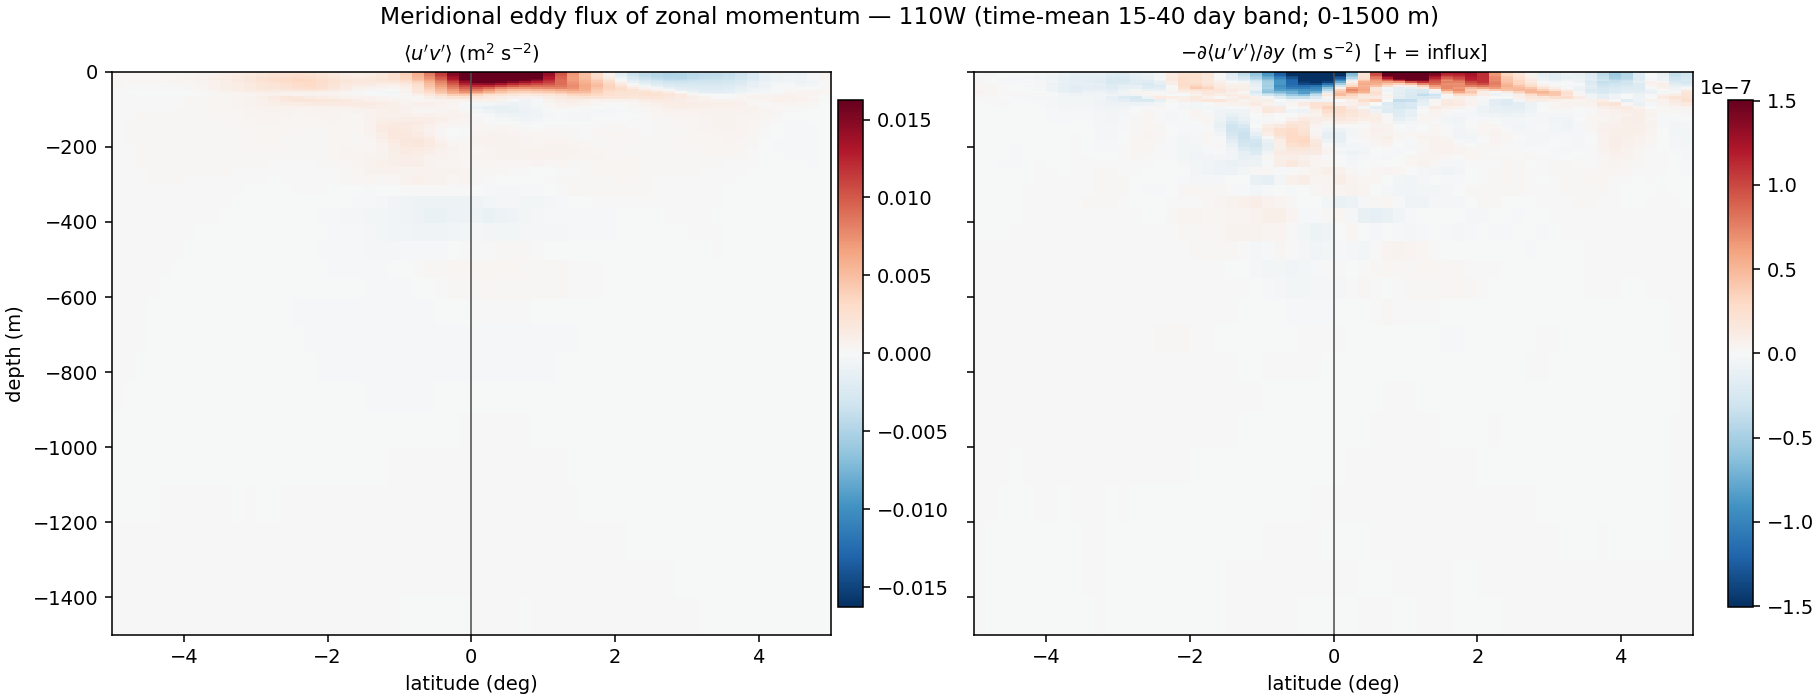
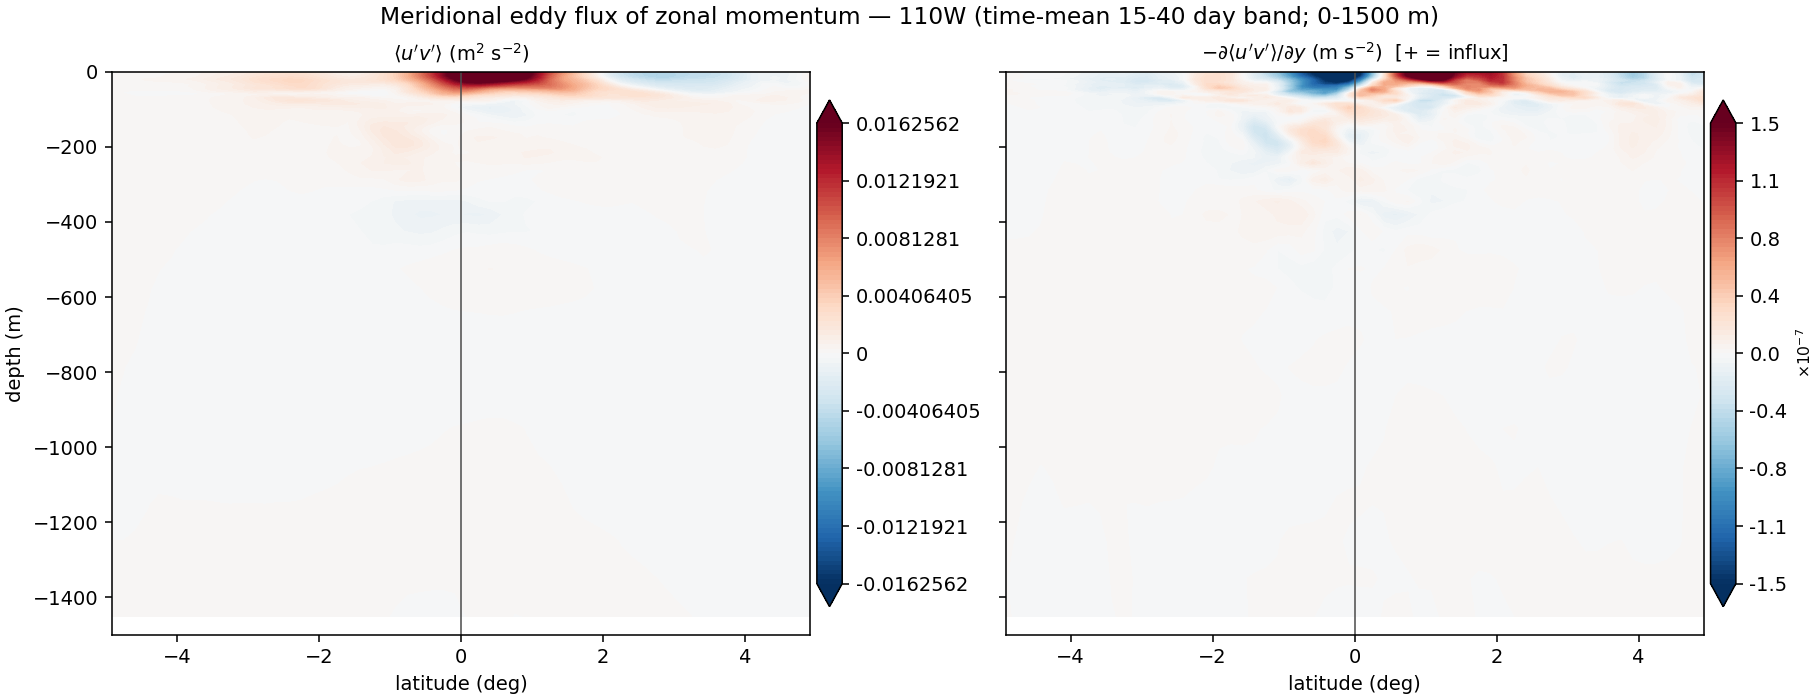
updating meridional convergence of momentum figures

diff --git a/scripts/build_uv_section.py b/scripts/build_uv_section.py
@@ -1,15 +1,21 @@
-"""Cache the TOTAL-anomaly zonal-momentum Reynolds stress <u'v'>(depth, lat).
+"""Cache the zonal-momentum Reynolds stress <u'v'>(depth, lat) at a few lons.
 
-Companion to the band-passed cov3d caches: here u' = u - time_mean(u) is the
-TOTAL anomaly (all frequencies), not the 15-40 day band. Only the few longitude
-sections that plot_mom_budget needs are computed, so this stays cheap -- one lon
-column is streamed at a time (low memory) over the same analysis window as the
-band-passed covariances (spin-up dropped + band-pass edge-trim removed, so the
-total and band-passed fig-3 views use identical time samples).
+Two companion <u'v'> sections are built from the same streamed longitude column,
+over the same analysis window (spin-up dropped + band-pass edge-trim removed):
+
+  TOTAL  u' = u - time_mean(u)             all frequencies
+  BAND   u' = bandpass(u) to 15-40 day     Yanai band, matches the cov3d cache
+
+The BAND section is the cheap single-column equivalent of component 'uv' in the
+full-domain yanai_flux_cov3d cache (build_map_cache), avoiding that ~600 GB
+whole-record load when only the plot_mom_budget sections are needed. It is
+written in the cov3d schema (cov[component, depth, y, x]) so plot_mom_budget
+reads it unchanged.
 
 Outputs (CACHE_DIR):
-  yanai_uv_section_total_dt60.nc   (tpose24)   uv(lon_w, depth, lat)
+  yanai_uv_section_total_dt60.nc   (tpose24)   total-anomaly uv(lon_w, depth, lat)
   yanai_uv_section_total_tp6.nc    (tpose6)
+  yanai_uv_section_band_dt60.nc    (tpose24)   band-passed cov[uv] section
 """
 
 import os
@@ -19,10 +25,13 @@ from concurrent.futures import ThreadPoolExecutor
 
 import tpose24_io as io24
 import tpose6_io as io6
+import wave_filter as wf
 
 LONS_W = {'tpose24': [140], 'tpose6': [170, 140, 110]}     # deg W sections
 OUT = {'tpose24': 'yanai_uv_section_total_dt60.nc',
        'tpose6': 'yanai_uv_section_total_tp6.nc'}
+# band-passed cov[uv] section (cov3d schema), cheap stand-in for build_map_cache
+OUT_BAND = {'tpose24': 'yanai_uv_section_band_dt60.nc'}
 
 
 def _cov_total(u, v, land):
@@ -33,6 +42,21 @@ def _cov_total(u, v, land):
     up = u - np.nanmean(u, 0, keepdims=True)
     vp = v - np.nanmean(v, 0, keepdims=True)
     return np.nanmean(up * vp, 0).astype('f4')             # (nz, ny)
+
+
+def _cov_band(u, v, land, k):
+    """Band-passed <u'v'> over time, matching the cov3d cache construction.
+
+    Mask land -> 15-40 day band-pass along time -> drop k edge samples each end
+    -> time-mean of the product. u,v: (time, nz, ny); land: (nz, ny) bool.
+    """
+    u, v = u.astype('f8'), v.astype('f8')
+    u[:, land] = np.nan
+    v[:, land] = np.nan
+    ub = wf.bandpass(u, axis=0)
+    vb = wf.bandpass(v, axis=0)
+    sl = slice(k, u.shape[0] - k)
+    return np.nanmean(ub[sl] * vb[sl], 0).astype('f4')     # (nz, ny)
 
 
 def section_t24(lons_w):
@@ -56,9 +80,10 @@ def section_t24(lons_w):
             if n % 100 == 0 or n == nt - 1:
                 print(f'  t24 read {n+1}/{nt}', flush=True)
     sl = slice(k, nt - k)                                  # match cov3d window
-    out = {lw: _cov_total(U[lw][sl], V[lw][sl], hFacC[:, :, ix] == 0.0)
-           for lw, ix in ixs.items()}
-    return Z, lat, out
+    land = {lw: hFacC[:, :, ix] == 0.0 for lw, ix in ixs.items()}
+    out = {lw: _cov_total(U[lw][sl], V[lw][sl], land[lw]) for lw in lons_w}
+    band = {lw: _cov_band(U[lw], V[lw], land[lw], k) for lw in lons_w}
+    return Z, lat, out, band
 
 
 def section_t6(lons_w):
@@ -75,13 +100,13 @@ def section_t6(lons_w):
         v = io6.load_var('VVEL', iy=iy, ix=slice(ix, ix + 1)).values[..., 0]
         out[lw] = _cov_total(u[etm], v[etm], hFacC[:, iy, ix] == 0.0)
         print(f'  t6 {lw}W done', flush=True)
-    return Z, lat, out
+    return Z, lat, out, None                               # no band section for t6
 
 
 def build(model):
     sec = section_t24 if model == 'tpose24' else section_t6
     cache = io24.CACHE_DIR if model == 'tpose24' else io6.CACHE_DIR
-    Z, lat, out = sec(LONS_W[model])
+    Z, lat, out, band = sec(LONS_W[model])
     lons = list(out)
     arr = np.stack([out[lw] for lw in lons])               # (nlon, nz, ny)
     ds = xr.Dataset(
@@ -93,6 +118,23 @@ def build(model):
     path = os.path.join(cache, OUT[model])
     ds.to_netcdf(path)
     print('saved', path, flush=True)
+
+    # band-passed section in cov3d schema (cheap stand-in for build_map_cache)
+    if band is not None and model in OUT_BAND:
+        cov = np.stack([band[lw] for lw in lons])          # (nlon=x, nz, ny)
+        cov = np.moveaxis(cov, 0, -1)[None]                # (component=1, nz, ny, nlon)
+        lon_e = [360.0 - lw for lw in lons]                # deg E, cov3d x coord
+        ds_b = xr.Dataset(
+            {'cov': (['component', 'depth', 'y', 'x'], cov.astype('f4'))},
+            coords={'component': ['uv'], 'depth': Z,
+                    'lat': ('y', lat), 'lon': ('x', np.array(lon_e))},
+            attrs={'momentum_units': 'm2 s-2', 'model': model,
+                   'band_days': f'{wf.YANAI_MIN_DAYS}-{wf.YANAI_MAX_DAYS}',
+                   'note': "band-passed <u'v'> section; single-column equivalent of "
+                           "component 'uv' in yanai_flux_cov3d (build_map_cache)"})
+        path_b = os.path.join(cache, OUT_BAND[model])
+        ds_b.to_netcdf(path_b)
+        print('saved', path_b, flush=True)
 
 
 def main(models=None):

diff --git a/scripts/tpose24_io.py b/scripts/tpose24_io.py
@@ -1,14 +1,22 @@
-"""IO helpers for the TPOSE24 dt=60 run (oct2012_3mo_dt60_AB3).
+"""IO helpers for the TPOSE24 dt=60 run (6-month Oct 2012 - Apr 2013).
 
-The MITgcm diag_state output is raw big-endian float32 with the field order
+The full 6-month record is two back-to-back MITgcm segments sharing one ref
+date and iteration clock (2012-10-01, dt=60 s, 3-hourly diag output):
+    oct2012_dt60_10072026   parent, iters 180..132480   (days 0.125..92)
+    jan2013_from_pickup     extension, iters 129780..262080 (days 90..182)
+The extension restarted from the parent's day-90 pickup and is bit-identical in
+the ~2-day overlap, so iteration numbers are globally meaningful and the two
+segments concatenate into one continuous record. See `SEGMENTS` / `_iter_dir`.
+
+The diag_state output is raw big-endian float32 with the field order
     THETA, SALT, UVEL, VVEL, WVEL, PHIHYD, DRHODR
 packed as (nz, ny, nx) per field per iteration file. Grid files (XC, YC, RC,
-DRF, hFacC, ...) live in the same run directory and are shared across all
-TPOSE24 runs.
+DRF, hFacC, ...) live in each segment directory (identical across both).
 
 Field reads use direct big-endian memmap offsets (fast, low memory); grid
 coordinates are taken from a light 2-iteration xmitgcm load so the spherical
-grid is not reconstructed by hand.
+grid is not reconstructed by hand. Every read goes through `_path(it)`, which
+routes an iteration to its owning segment, so callers are segment-agnostic.
 """
 
 import os
@@ -18,8 +26,12 @@ import numpy as np
 import pandas as pd
 
 # --- run configuration --------------------------------------------------------
-RUN_DIR   = '/data/SO3/edavenport/tpose24/oct2012_3mo_dt60_AB3'
-GRID_DIR  = RUN_DIR                       # grid files shared, live in the run dir
+# 6-month record as ordered segments; the overlap resolves to the FIRST segment
+# that owns an iteration (parent wins), so the record is continuous and dedup'd.
+SEGMENTS = ['/data/SO3/edavenport/tpose24/oct2012_dt60_10072026',  # parent 0-92d
+            '/data/SO3/edavenport/tpose24/jan2013_from_pickup']    # extension 90-182d
+RUN_DIR   = ' + '.join(os.path.basename(s) for s in SEGMENTS)  # provenance label
+GRID_DIR  = SEGMENTS[0]                    # grid files identical across segments
 CACHE_DIR = '/data/SO3/edavenport/tpose24/cache'
 REF_DATE  = '2012-10-01'
 DELTA_T   = 60.0                          # model time step (s), dt=60 run
@@ -39,12 +51,25 @@ FIELD_IDX = {'THETA': 0, 'SALT': 1, 'UVEL': 2, 'VVEL': 3,
 _SLICE = NY * NX                         # elements in one horizontal level
 _FIELD = NZ * _SLICE                     # elements in one full 3D field
 
+_ITER_DIR = None                         # lazy iter -> segment dir map (dedup'd)
+
+
+def _iter_dir():
+    """Map {iteration -> owning segment dir}, first segment wins on overlap."""
+    global _ITER_DIR
+    if _ITER_DIR is None:
+        m = {}
+        for seg in SEGMENTS:
+            for f in glob.glob(os.path.join(seg, 'diag_state.*.data')):
+                it = int(re.search(r'\.(\d+)\.data$', f).group(1))
+                m.setdefault(it, seg)       # setdefault -> earlier segment wins
+        _ITER_DIR = m
+    return _ITER_DIR
+
 
 def diag_iters():
-    """Sorted iteration numbers with a diag_state file present."""
-    its = [int(re.search(r'\.(\d+)\.data$', f).group(1))
-           for f in glob.glob(os.path.join(RUN_DIR, 'diag_state.*.data'))]
-    return np.array(sorted(its))
+    """Sorted iteration numbers present across the concatenated segments."""
+    return np.array(sorted(_iter_dir()))
 
 
 def iter_times(iters):
@@ -78,7 +103,7 @@ def edge_trim_mask(times, trim_days=EDGE_TRIM_DAYS):
 
 
 def _path(it):
-    return os.path.join(RUN_DIR, f'diag_state.{it:010d}.data')
+    return os.path.join(_iter_dir()[int(it)], f'diag_state.{it:010d}.data')
 
 
 def read_column(it, field, i, j):
@@ -149,7 +174,7 @@ def load_grid():
     """
     from xmitgcm import open_mdsdataset
     its = diag_iters()[:2].tolist()
-    ds = open_mdsdataset(RUN_DIR, grid_dir=GRID_DIR, iters=its,
+    ds = open_mdsdataset(GRID_DIR, grid_dir=GRID_DIR, iters=its,
                          prefix=['diag_state'], ref_date=REF_DATE,
                          delta_t=DELTA_T)
     xc = np.asarray(ds.XC.values); yc = np.asarray(ds.YC.values)

diff --git a/scripts/plot_deep_jets.py b/scripts/plot_deep_jets.py
@@ -36,7 +36,7 @@ import plot_moorings as pm
 import eos_jmd95 as eos
 
 NMODES = 20                       # highest mode number kept
-ZMIN, ZMAX = 100.0, 1000.0        # plotted depth range (m, positive down)
+ZMIN, ZMAX = 200.0, 1000.0        # plotted depth range (m, positive down)
 N_LEVELS = 100                    # filled-contour levels
 N2_FLOOR = 1e-7                   # s^-2, keeps the eigenproblem stably stratified
 CLIM = {'low': 1.0, 'high': 0.3}  # shared symmetric color limits (m/s)
@@ -170,7 +170,7 @@ OVERLAY_DAYS = 3        # light moving-avg window (days) for the overlaid u'w';
 N_UW_LINES = 5          # +/- contour lines of u'w' overlaid (zero omitted)
 
 
-def make_overlay_fig(M, cfg, strat, treat='yanai'):
+def make_overlay_fig(M, cfg, strat, treat='yanai', overlay_days=OVERLAY_DAYS):
     """High-mode zonal velocity with the u'w' flux overlaid as contour lines.
 
     Same bottom-row high-mode (11-20) reconstruction as make_fig, one column per
@@ -188,7 +188,7 @@ def make_overlay_fig(M, cfg, strat, treat='yanai'):
     zz = Z[zmask]
 
     dt_days = float(np.median(np.diff(M['time'])) / np.timedelta64(1, 'D'))
-    win = max(1, round(OVERLAY_DAYS / dt_days))
+    win = max(1, round(overlay_days / dt_days))
     high, uw = {}, {}
     for p in range(len(names)):
         Utot = M['mean']['U'][p][None, :] + M['treat']['unfiltered']['u'][:, p, :]
@@ -221,10 +221,10 @@ def make_overlay_fig(M, cfg, strat, treat='yanai'):
     axes[0].set_ylim(-ZMAX, -ZMIN)
     band = '15-40 day' if treat == 'yanai' else 'total (unfiltered)'
     fig.suptitle(f"Deep jets (high modes 11-20) with {band} $u'w'$ overlaid "
-                 f"(solid +, dashed −; {OVERLAY_DAYS}-day avg; {ZMIN:.0f}-{ZMAX:.0f} m)")
+                 f"(solid +, dashed −; {overlay_days}-day avg; {ZMIN:.0f}-{ZMAX:.0f} m)")
     fname = pm.fig_path(M['fig_dir'],
                         f"mooring_deep_jets_highmode_uw_overlay_{treat}_"
-                        f"{ZMIN:.0f}-{ZMAX:.0f}m.png")
+                        f"{overlay_days}dayavg_{ZMIN:.0f}-{ZMAX:.0f}m.png")
     fig.savefig(fname, dpi=140)
     plt.close(fig)
     return fname
@@ -249,7 +249,8 @@ def main(models=None):
         for tag, splitter, label in VARIANTS:
             print('wrote', make_fig(M, cfg, strat, splitter, tag, label))
         for treat in ('yanai', 'unfiltered'):      # band-passed + total u'w' overlay
-            print('wrote', make_overlay_fig(M, cfg, strat, treat))
+            for days in (1, 3):                     # smoothing window for overlaid u'w'
+                print('wrote', make_overlay_fig(M, cfg, strat, treat, days))
 
 
 def _selfcheck():

diff --git a/scripts/plot_mom_budget.py b/scripts/plot_mom_budget.py
@@ -29,15 +29,17 @@ import matplotlib.pyplot as plt
 
 import plot_moorings as pm
 
-# cov3d cache per model (component-stacked time-mean covariances)
-COV3D = {'tpose24': 'yanai_flux_cov3d_dt60.nc', 'tpose6': 'yanai_flux_cov3d_tp6.nc'}
+# band-passed <u'v'> source per model: tpose24 uses the cheap single-column
+# section (build_uv_section) that stands in for the full-domain cov3d 'uv'
+# component; tpose6 uses its full cov3d cache (build_map_cache_t6).
+COV3D = {'tpose24': 'yanai_uv_section_band_dt60.nc', 'tpose6': 'yanai_flux_cov3d_tp6.nc'}
 # longitudes to section (deg W); only those inside the model domain are drawn
 LONS_W = {'tpose24': [140], 'tpose6': [170, 140, 110]}
 LAT_LIM = 5.0            # +/- latitude shown (deg)
 # depth windows (zmin, zmax, filename tag). The colour limit auto-scales to the
 # plotted band, so the 100-1000 m view gets smaller limits that bring out the
 # (much weaker) deep structure hidden under the surface-intensified signal.
-ZRANGES = [(0.0, 1500.0, ''), (100.0, 1000.0, '_100-1000m')]
+ZRANGES = [(0.0, 1500.0, ''), (200.0, 1000.0, '_200-1000m')]
 R_EARTH, D2R = 6371e3, np.pi / 180.0
 
 
@@ -81,12 +83,12 @@ def make_fig(cfg, lon_w, lat, depth, uv, zmin, zmax, ztag, treat):
     for ax, (title, F) in zip(axes, panels):
         Fs = F[np.ix_(zmask, lmask)]
         v = pm._autoscale(Fs)
-        pcm = ax.pcolormesh(yy, zz, Fs, cmap='RdBu_r', vmin=-v, vmax=v,
-                            shading='auto')
+        cs = ax.contourf(yy, zz, Fs, levels=np.linspace(-v, v, pm.N_LEVELS + 1),
+                         cmap='RdBu_r', extend='both')
         ax.axvline(0, color='0.3', lw=0.8)
         ax.set_xlabel('latitude (deg)')
         ax.set_title(title, fontsize=10)
-        fig.colorbar(pcm, ax=ax, pad=0.01, shrink=0.9)
+        pm._add_colorbar(fig, cs, ax, v)
     axes[0].set_ylabel('depth (m)')
     axes[0].set_ylim(-zmax, -zmin)
     fig.suptitle(f'Meridional eddy flux of zonal momentum — {lon_w}W '

diff --git a/scripts/plot_spectra.py b/scripts/plot_spectra.py
@@ -10,7 +10,7 @@ log-spaced contour lines help read the levels; the 15-40 day Yanai band is marke
 One figure per mooring (mooring_<name>_spectrum_depth_freq.png -> spectra/).
 Reuses the mooring cache + perturbation construction from plot_moorings.
 
-Record-length caveat: tpose24 is ~3 months and tpose6 ~10 months, so the
+Record-length caveat: tpose24 is ~6 months and tpose6 ~10 months, so the
 low-frequency (near-annual) end is coarse/under-resolved -- these resolve the
 intraseasonal / Yanai band well, not the annual cycle. The noVel 5-year run is
 the one to use for a true cycles-per-year spectrum (not drawn here by request).
@@ -31,7 +31,7 @@ import wave_filter as wf
 ZMIN, ZMAX = 0.0, 1500.0      # plotted depth range (m, positive down)
 XMAX_CPY = 60.0               # frequency axis limit (cycles per year)
 N_CONTOURS = 6                # log-spaced PSD contour lines overlaid
-N_FILL = 20                   # log-spaced filled-contour levels
+N_FILL = 100                  # log-spaced filled-contour levels (near-continuous)
 N_DECADES = 4.0               # color range spans this many decades below the max
 DAYS_PER_YEAR = 365.25
 
